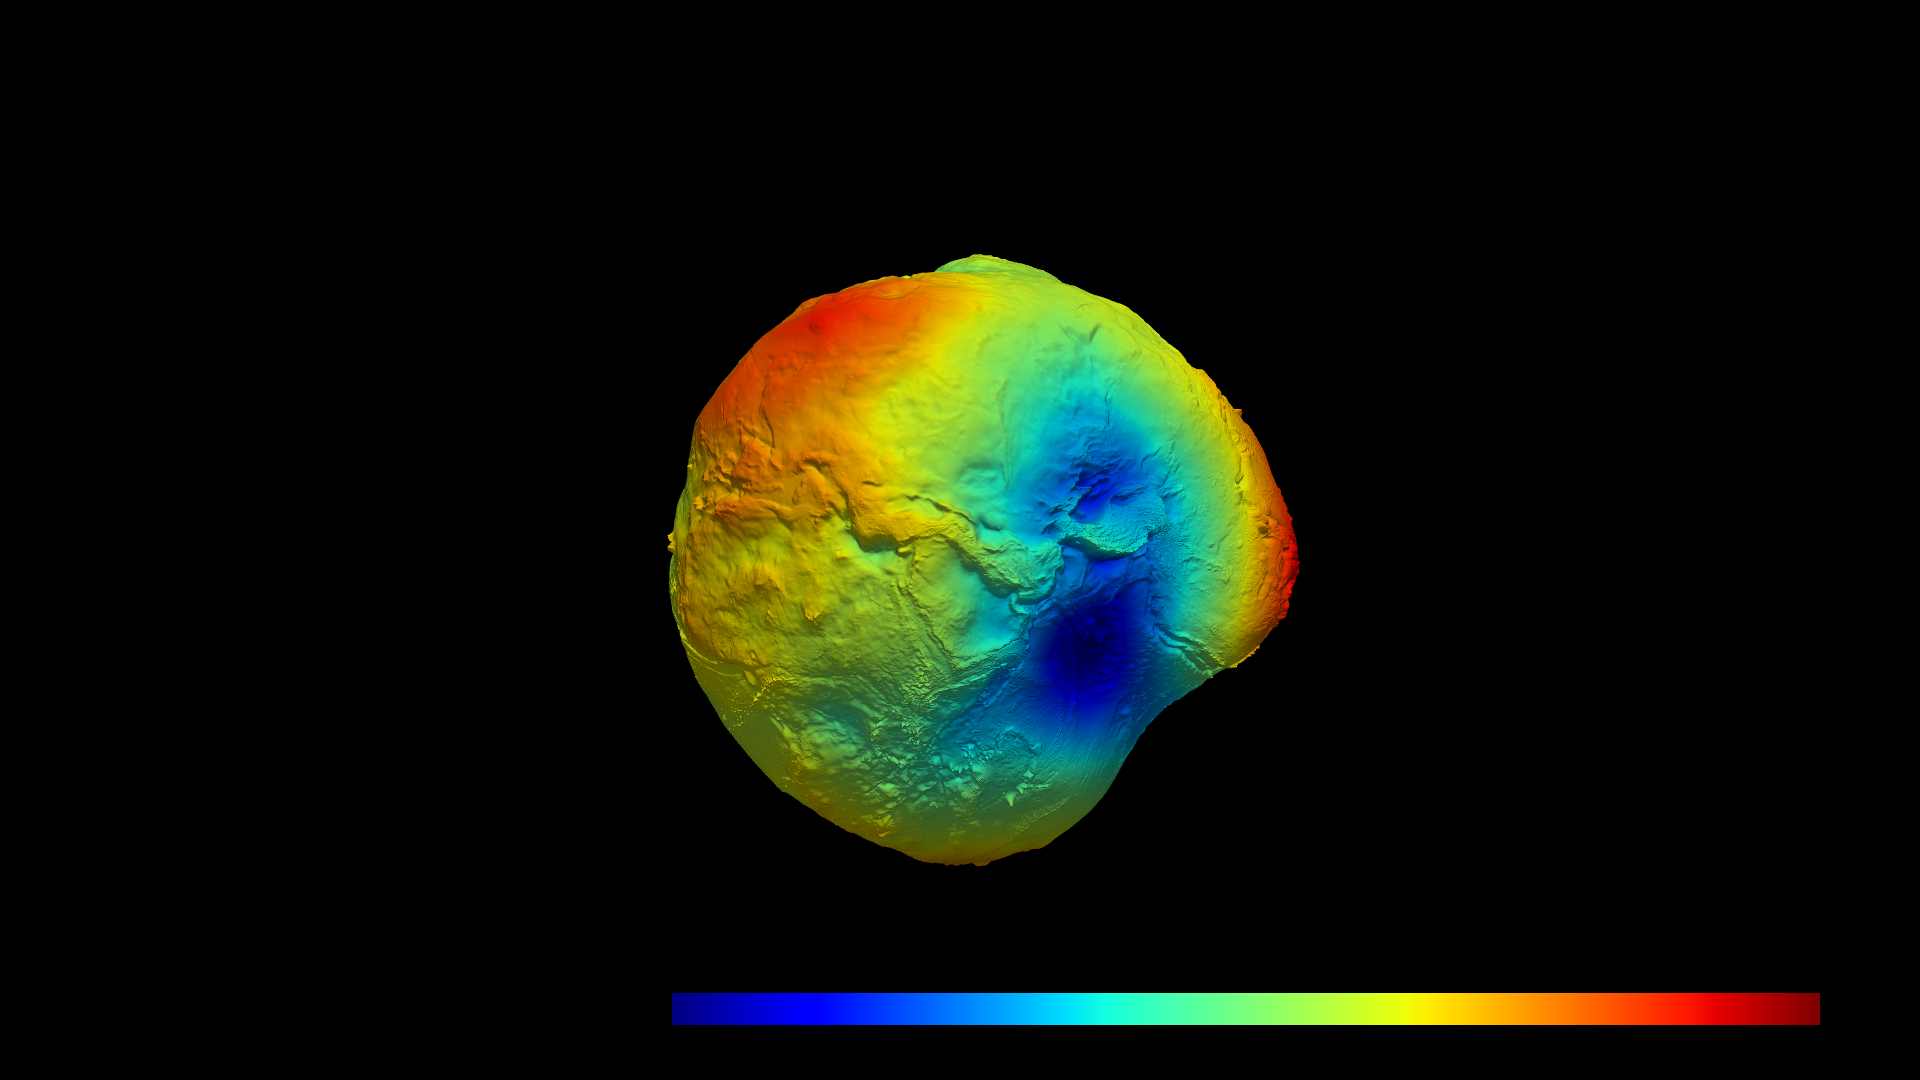
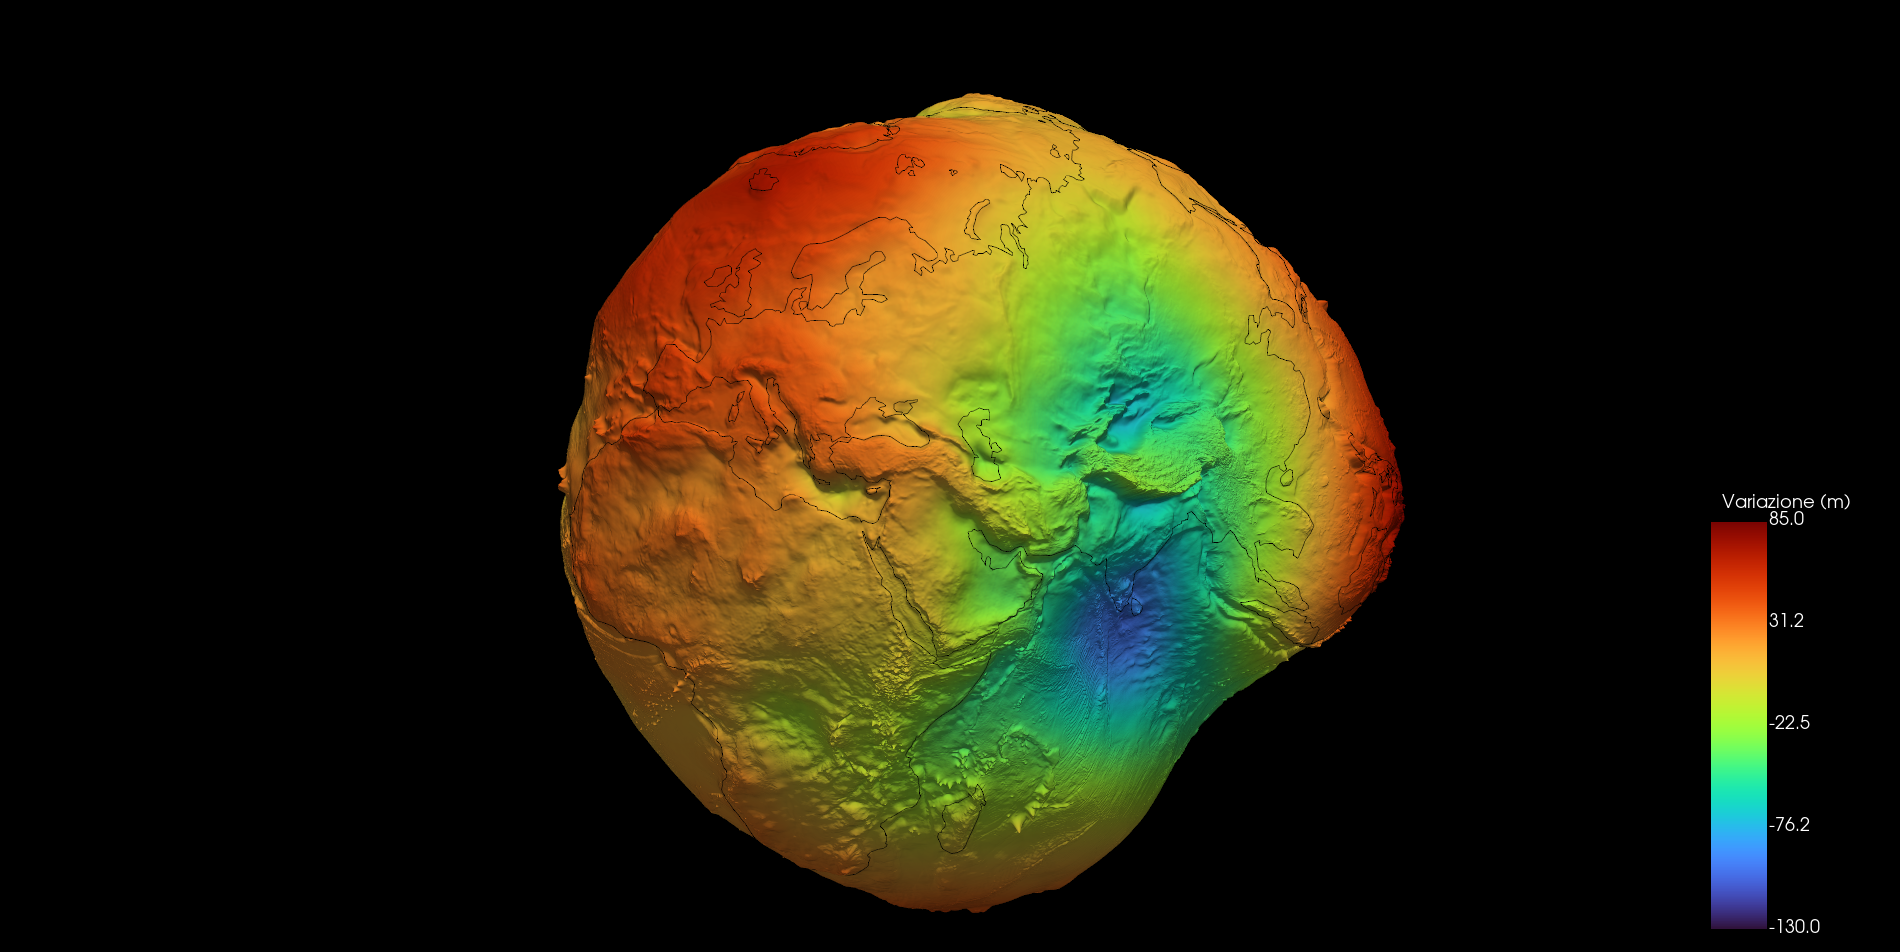
Fine tesi

Changed region(s): [[0.2795, 0.0914, 0.9626, 0.9748]]

diff --git a/Codici/_visualizzatore.py b/Codici/_visualizzatore.py
@@ -1,16 +1,15 @@
 import pyvista as pv
 import numpy as np
 import pandas as pd
+from scipy.interpolate import RegularGridInterpolator
+import cartopy.feature as cfeature
 
 print("Caricamento CSV in corso...")
 ondulazioni_geoide = pd.read_csv('geoide_risoluzione_alta.csv', header=None).values
 
-# 1. CHIUSURA DELLA SFERA: Copiamo la prima colonna (0°) e la aggiungiamo alla fine (360°)
-# In questo modo i vertici combaciano al millimetro chiudendo la mesh senza tagli fisici.
+# Chiusura della sfera
 ondulazioni_geoide = np.column_stack((ondulazioni_geoide, ondulazioni_geoide[:, 0]))
-
 n_lat, n_lon = ondulazioni_geoide.shape
-print(f"Griglia {n_lat}x{n_lon} caricata in RAM. Costruzione geometria...")
 
 R_base = 6378137.0
 esagerazione = 15000
@@ -24,23 +23,73 @@ R_totale = R_base + (ondulazioni_geoide * esagerazione)
 X = R_totale * np.sin(Colat) * np.cos(Lon)
 Y = R_totale * np.sin(Colat) * np.sin(Lon)
 Z = R_totale * np.cos(Colat)
-
 mesh = pv.StructuredGrid(X, Y, Z)
-
-# 2. FIX MEMORIA (order="F"): I colori si allineano perfettamente alla geometria 3D
 mesh["Anomalie Geoidiche"] = ondulazioni_geoide.ravel(order="F")
 
-print("Avvio motore grafico...")
-plotter = pv.Plotter(window_size=[1920,1080], off_screen=True)
+plotter = pv.Plotter()
+# --- 1. GESTIONE COLORI E SCALA ---
+impostazioni_barra = dict(title="Variazione (m)", color="white", vertical=True, fmt="%.1f")
+
 plotter.add_mesh(
     mesh, 
     scalars="Anomalie Geoidiche", 
-    cmap="jet", 
+    cmap="turbo",                 # Più luminoso e continuo di jet
+    clim=[-130, 85],              # Sbilanciamento del minimo per restringere il blu scuro
     show_edges=False, 
     smooth_shading=True,
-    interpolate_before_map=True # Risolve i salti di colore sfumando al pixel
+    interpolate_before_map=True,
+    scalar_bar_args=impostazioni_barra    
 )
-plotter.set_background("black")
-plotter.screenshot("terra.png")
-plotter.show()
 
+# --- 2. GESTIONE CONTINENTI IN 3D ---
+print("Estrazione coste e calcolo altitudini sul geoide deformato...")
+
+# Creiamo un interpolatore per calcolare l'anomalia esatta in mezzo alla tua griglia
+interpolatore = RegularGridInterpolator(
+    (colatitudini, longitudini), 
+    ondulazioni_geoide, 
+    bounds_error=False, 
+    fill_value=None
+)
+
+# Estraiamo le geometrie standard delle coste terrestri (110m o 50m resolution)
+for feature in cfeature.COASTLINE.geometries():
+    linee = feature.geoms if hasattr(feature, 'geoms') else [feature]
+    
+    for linea in linee:
+        lon_costa, lat_costa = np.array(linea.xy)
+        
+        # Mappatura coordinate geografiche -> angoli del nostro sistema
+        colat_costa = np.pi/2 - np.radians(lat_costa)
+        lon_costa_rad = np.radians(lon_costa) % (2 * np.pi)
+        
+        # Interroga l'interpolatore per sapere l'altezza esatta del geoide sotto questa linea
+        punti_interp = np.column_stack((colat_costa, lon_costa_rad))
+        anomalia_costa = interpolatore(punti_interp)
+        
+        # Calcola il raggio finale e aggiungi lo 0.3% per far galleggiare le linee sopra i poligoni della mesh
+        R_costa = (R_base + (anomalia_costa * esagerazione)) * 1.003 
+        
+        # Converti le coste in X, Y, Z cartesiane
+        x_c = R_costa * np.sin(colat_costa) * np.cos(lon_costa_rad)
+        y_c = R_costa * np.sin(colat_costa) * np.sin(lon_costa_rad)
+        z_c = R_costa * np.cos(colat_costa)
+        
+        punti_3d = np.column_stack((x_c, y_c, z_c))
+        n_punti = len(punti_3d)
+        
+        if n_punti > 1:
+            # 1. Definisci l'array della linea PRIMA di creare l'oggetto
+            linea_celle = np.insert(np.arange(n_punti), 0, n_punti)
+            
+            # 2. Crea il PolyData passando direttamente le celle, così non genera i vertici
+            poly = pv.PolyData(punti_3d, lines=linea_celle)
+            
+            # 3. Renderizza la linea pulita
+            plotter.add_mesh(poly, color="black", line_width=1)
+
+print("Avvio rendering...")
+plotter.set_background("black")
+plotter.reset_camera()
+plotter.camera.zoom(1.5)
+plotter.show(screenshot="terra.png")
